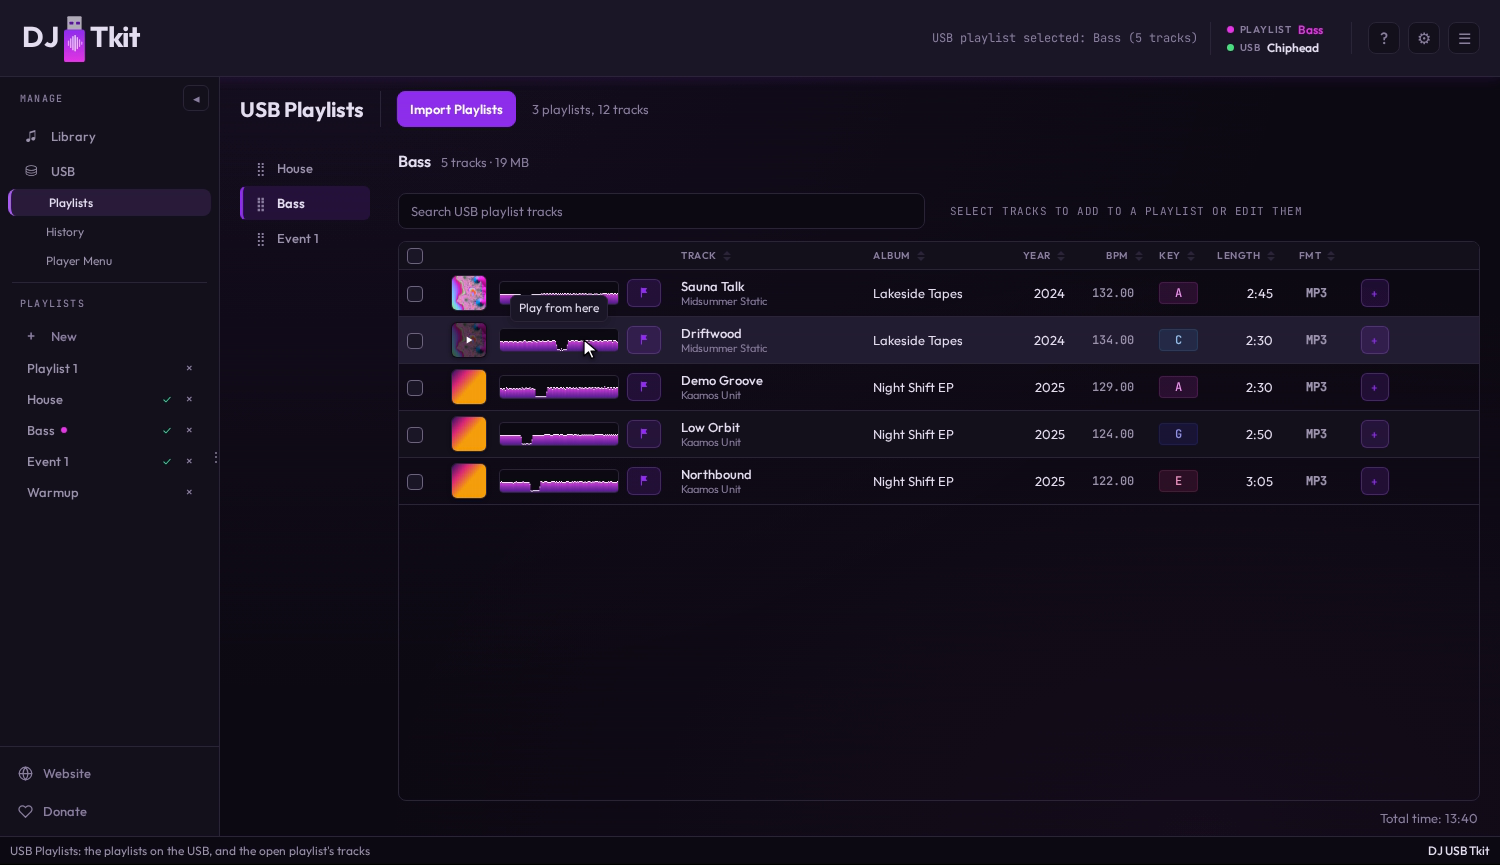
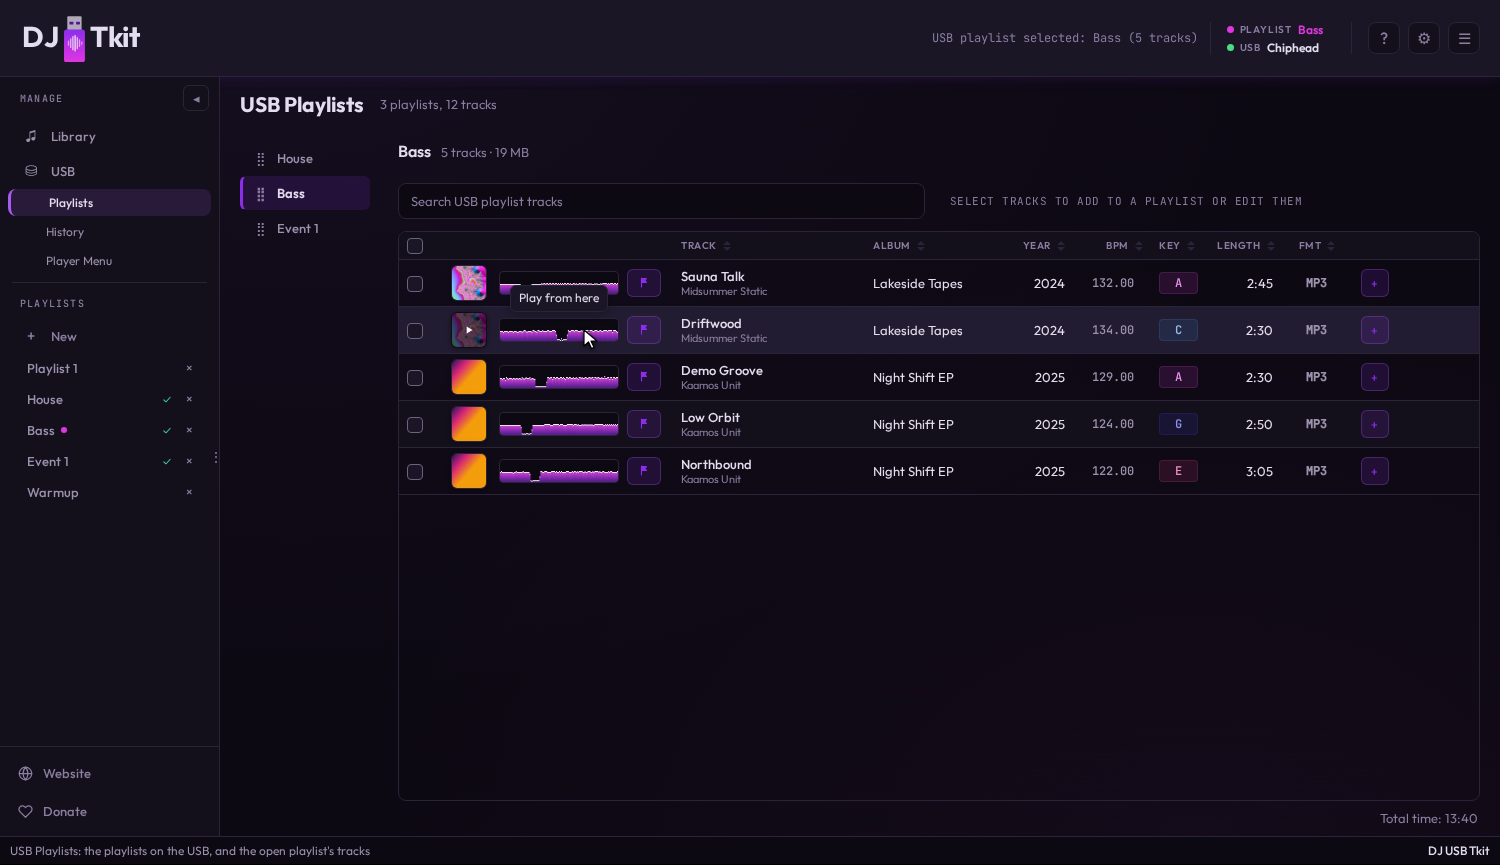
update docs, move export history playlist to text file under the table

Changed region(s): [[0.1533, 0.0936, 0.9813, 0.5931], [0.644, 0.2185, 0.8587, 0.2497]]

diff --git a/vanilla-ui/index.html b/vanilla-ui/index.html
@@ -351,7 +351,6 @@
             <div class="track-list-heading hidden" id="historyHeading">
               <h3 class="track-list-heading-name"></h3>
               <span class="muted track-list-heading-count"></span>
-              <button id="exportHistoryTracklistBtn">Export Tracklist</button>
             </div>
             <div class="track-toolbar">
               <div class="search-row">
@@ -389,6 +388,9 @@
               </div>
             </div>
             <p class="muted track-total-time" id="historyTotalDuration">Total time: 0:00</p>
+            <div class="row playlist-actions">
+              <button id="exportHistoryTracklistBtn">Export Tracklist to Text File</button>
+            </div>
           </div>
         </div>
       </section>

diff --git a/vanilla-ui/styles.css b/vanilla-ui/styles.css
@@ -1782,7 +1782,8 @@ button[data-destructive]:hover {
 }
 
 /* export button */
-button[data-export-playlist] {
+button[data-export-playlist],
+#exportHistoryTracklistBtn {
   background: linear-gradient(135deg, var(--accent), var(--accent-hot));
   color: var(--ink-on-accent);
   border: none;
@@ -1790,7 +1791,8 @@ button[data-export-playlist] {
   padding: 0 20px;
 }
 
-button[data-export-playlist]:hover {
+button[data-export-playlist]:hover,
+#exportHistoryTracklistBtn:hover {
   box-shadow: 0 0 16px var(--accent-glow);
 }
 
@@ -2674,11 +2676,6 @@ input[type="checkbox"]:disabled {
 
 .track-list-heading-count {
   font-size: 13px;
-  flex-shrink: 0;
-}
-
-.track-list-heading > button {
-  margin-left: auto;
   flex-shrink: 0;
 }
 

diff --git a/backend/tests/usb_service_functional.rs b/backend/tests/usb_service_functional.rs
@@ -779,6 +779,32 @@ fn fetch_usb_histories_returns_empty_result_when_pdb_is_missing() {
 }
 
 #[test]
+fn fetch_usb_histories_marks_a_session_with_no_tracks_as_not_exportable() {
+    let root = tempdir().expect("temp root");
+    let usb = root.path().join("usb");
+    fs::create_dir_all(&usb).expect("create usb dir");
+    let backend = BackendCommands::new(&root.path().join("data")).expect("create backend");
+    let initialized = backend.initialize_usb(InitializeUsbRequest {
+        usb_root: usb.to_string_lossy().to_string(),
+    });
+    assert!(initialized.ok, "initialize usb failed: {initialized:?}");
+    append_history_to_pdb(&pdb_path(&usb), 1, &[]);
+
+    let data = backend
+        .fetch_usb_histories(FetchUsbHistoriesRequest {
+            usb_root: Some(usb.to_string_lossy().to_string()),
+        })
+        .data
+        .expect("history data");
+    assert_eq!(data.items.len(), 1);
+    let history = &data.items[0];
+    assert_eq!(history.track_count, 0);
+    assert!(!history.can_export_tracklist);
+    let sent = serde_json::to_value(history).expect("serialize history");
+    assert_eq!(sent["canExportTracklist"], false);
+}
+
+#[test]
 fn fetch_usb_histories_reads_injected_pdb_history_rows_and_materializes_tracks() {
     let root = tempdir().expect("temp root");
     let media_a = root.path().join("media-a");

diff --git a/docs/USB_IMPORT.md b/docs/USB_IMPORT.md
@@ -7,6 +7,11 @@ what that does.
 
 USB import reads USB database data from the selected USB root and builds one in-app view of playlists, histories, and tracks. When possible, the import path tolerates incomplete or corrupted USB metadata and returns warnings instead of failing the entire operation.
 
+**USB Playlists** and **USB History** load when you open the page, and the first item opens if
+nothing is open yet. Coming back to a page keeps what was open and reads nothing again. A list is read
+again when you next open its page after selecting the USB again, or after the app changed that list on
+the stick. If a read fails, it tries again the next time you open the page.
+
 ![USB Playlists: the playlists on the USB, and the open playlist's tracks](assets/usb-playlists.png)
 
 For large USB libraries, import is metadata-first. Playlist and history lists can load without reading full waveform/artwork payload bytes for every track. Rich track previews are hydrated on demand when the UI requests them.
@@ -103,8 +108,11 @@ avoids mixing incompatible history-table families and prevents seeded
 `t17/t18` template rows from surfacing as real user history on initialized or
 freshly exported drives.
 
+USB History lists sessions newest first. The backend reverses them after filling in their dates,
+because carrying a date forward needs them oldest first.
+
 An imported history session can be exported as a plain-text tracklist
-("Export Tracklist" on the USB History panel), with a choice of which track
+("Export Tracklist to Text File", under the open session's tracks), with a choice of which track
 in the session the list starts from and an option to include estimated
 cumulative per-track times, placed before or after each `Artist - Title`
 line. These times are always an estimate — summed from track `durationMs`
@@ -117,10 +125,9 @@ the History panel isn't guaranteed to be a real hardware-recorded value —
 PDB `t19` rows can carry a date per history session when the CDJ wrote one,
 but when that's absent the app estimates it from the session's own tracks'
 `date_added` metadata instead (`apply_history_dates_from_track_date_created`
-in `backend/src/service/usb.rs`). This export is pure frontend formatting
-over already-imported `UsbHistory` data
-(`vanilla-ui/track_utils.mjs::buildTracklistText`); it does not read PDB/eDB
-again and is unrelated to the USB export/write pipeline.
+in `backend/src/service/usb.rs`). The backend builds this export from the
+cached `UsbHistory` data (`backend/src/service/usb_tracklist.rs`); it does not
+read PDB/eDB again and is unrelated to the USB export/write pipeline.
 
 Corruption tolerance is intentional: unreadable optional analysis artifacts should produce warnings rather than aborting whole playlist/history imports. The command returns partial-but-usable data whenever safe to do so.
 

diff --git a/docs/PDB.md b/docs/PDB.md
@@ -831,16 +831,19 @@ parent-scoped order.
 
 Outside of export, the `reorder_usb_playlists` command lets the user
 drag-and-drop reorder the USB playlist list in the UI. Unlike the
-export-time placement above, this reassigns `t07.sort_order` as one
-monotonically increasing sequence across every PDB-backed leaf playlist
-in the requested order — it does not scope by parent/folder, matching how
+export-time placement above, every playlist gets its position in the whole
+requested list — it does not scope by parent/folder, matching how
 `fetch_usb_playlists` already sorts and displays the flat playlist list.
-eDB-only playlists (no PDB row) are left untouched since they have no
-`t07` row to patch. The command reuses the same in-place `t07.sort_order`
-byte patcher used by strict-repair order restoration
-(`patch_playlist_tree_sort_orders_in_place`), then re-syncs eDB
-`playlist.sequenceNo` from the freshly patched PDB so both surfaces agree
-and strict-parity ordering checks stay green.
+
+That one numbering goes to both databases: `t07.sort_order` for each playlist
+with a PDB row, through the same in-place byte patcher strict-repair order
+restoration uses (`patch_playlist_tree_sort_orders_in_place`), and eDB
+`playlist.sequenceNo` for each playlist with an eDB row, matched by name as the
+list read pairs them (`write_edb_playlist_order`). A playlist in only one
+database is reordered there. Because eDB-only playlists hold positions too,
+`t07.sort_order` can have gaps when the list includes them; a list without them
+stays consecutive. `fetch_usb_playlists` sorts PDB rows by `t07.sort_order` and
+eDB-only rows by `sequenceNo` together.
 
 ## Menu Catalog
 

diff --git a/docs/COMMANDS.md b/docs/COMMANDS.md
@@ -283,6 +283,11 @@ drive selection from being rendered against a newer selected drive.
 - `fetch_usb_histories`
 - `fetch_usb_playlist_tracks`
 - `fetch_usb_history_tracks`
+- `get_usb_history_tracklist_options` — `{ usbRoot, id }`, answers `{ startTracks }`, the Export
+  Tracklist dialog's labels. Reads the cached history, not the stick.
+- `build_usb_history_tracklist` — `{ usbRoot, id, startIndex, timeMode }` (`off`, `before`, `after`),
+  answers `{ suggestedFileName, contents, exportedText, cancelledText }`. Reads the cached history,
+  not the stick; the desktop layer's `save_text_file` writes the file.
 - `get_usb_player_menu_config`
 - `update_usb_player_menu_config` — `{ usbRoot, action, kind }`, one editor edit
   (`add`, `remove`, `moveUp`, `moveDown`) applied to the stick's current menu;
@@ -357,7 +362,9 @@ paginated/searched/sorted page of a selected USB playlist or history session
 bytes and artwork data URLs already hydrated server-side **for that page only** —
 the frontend renders the page directly, no follow-up hydration round-trip.
 `fetch_usb_playlists` / `fetch_usb_histories` still resolve the playlist/session
-list and its counts.
+list and its counts, newest session first, and don't send each item's tracks.
+They also send the panel's text (`summaryText`, `statusText`); the track pages send
+`listSummaryText` for the heading.
 
 `list_usb_backups`/`restore_usb_backup`/`delete_usb_backup` back the Backups panel described in
 `docs/USB_BACKUPS.md` — listing, restoring, and deleting the timestamped

diff --git a/CHANGELOG.md b/CHANGELOG.md
@@ -51,11 +51,14 @@
 - **Fix:** A USB playlist reorder that can't write to the stick now shows its warnings instead of a plain
   "Playlist order saved".
 - **Fix:** Warnings from removing a USB playlist now reach the Event Log that the status line links to.
-- **Improvement:** Export Tracklist moved next to the open session's name on USB History, and only shows
-  when a session is open.
+- **Improvement:** Export Tracklist moved under the open session's tracks on USB History, where an app
+  playlist has Export to USB.
 - **Improvement:** The USB list responses no longer carry every track, and Export Tracklist is built in
   the backend. The saved file doesn't change.
 - **Improvement:** USB History rows show the session's date on a smaller muted line under its name.
+- **Chore:** The docs' USB Playlists and USB History screenshots show the new layout.
+- **Chore:** The docs describe the USB lists loading when a page opens, Export Tracklist's new place and
+  backend build, and reorders writing both databases.
 - **Chore:** The backend now sends USB History newest first, instead of the UI reversing the list.
 - **Chore:** USB History keeps one record of the open session, instead of three.
 - **Improvement:** The USB list totals, track-list headings and status lines now come from the backend.

diff --git a/docs/COMPARISON.md b/docs/COMPARISON.md
@@ -63,9 +63,9 @@ force a clean resync when that's what's wanted instead.
 ## Reordering playlists directly on the USB
 
 The USB Playlists panel supports drag-and-drop reordering of the playlist
-list on an already-exported USB (`reorder_usb_playlists`). This patches
-`t07.sort_order` in PDB in place and re-syncs eDB `playlist.sequenceNo` from
-it afterward, so the new order shows up on CDJs and in Rekordbox itself, not
+list on an already-exported USB (`reorder_usb_playlists`). This writes the
+same order to `t07.sort_order` in PDB, in place, and to eDB `playlist.sequenceNo`,
+so the new order shows up on CDJs and in Rekordbox itself, not
 just in DJ USB Tkit — and strict-parity ordering checks stay green. See
 "Playlist Reordering" in [`docs/PDB.md`](PDB.md). This works on the USB
 directly; it doesn't require reordering the source playlist locally and

diff --git a/docs/eDB.md b/docs/eDB.md
@@ -233,9 +233,9 @@ Export writes eDB before PDB. The PDB writer then uses the eDB playlist id and
 sort order so both database surfaces describe the same exported playlist.
 
 Outside of export, the user-triggered `reorder_usb_playlists` command (see
-`docs/PDB.md` "Playlist Reordering") patches PDB `t07.sort_order` first, then
-re-derives `playlist.sequenceNo` for every leaf playlist from the patched PDB
-in one pass — a flat, non-parent-scoped order, unlike the per-parent order
+`docs/PDB.md` "Playlist Reordering") writes every leaf playlist's position in
+the whole list to `playlist.sequenceNo`, matched by name, including playlists
+with no PDB row — a flat, non-parent-scoped order, unlike the per-parent order
 export assigns to a newly exported playlist.
 
 ## Repair and Parity Behavior

diff --git a/docs/USB_CONNECT.md b/docs/USB_CONNECT.md
@@ -74,8 +74,7 @@ The technical details are under "Local HDD staging" in [USB_EXPORT.md](USB_EXPOR
 - **Header:** shows the drive's name ("Unnamed" for a drive without one). Click the name to
   rename the drive, or to name it. Its backups and local working copy move with it.
 - **USB views:** **Playlists**, **History** and **Player Menu** appear under **USB Browser** in
-  the sidebar, and **Import Playlists**, **Import History** and **Backups** work
-  ([USB_IMPORT.md](USB_IMPORT.md)).
+  the sidebar ([USB_IMPORT.md](USB_IMPORT.md)), and **Backups** works.
 - **Sidebar playlists:** the checkmark next to a playlist means "on this USB": the USB has a
   playlist with that name.
 - **Playlist page:**
